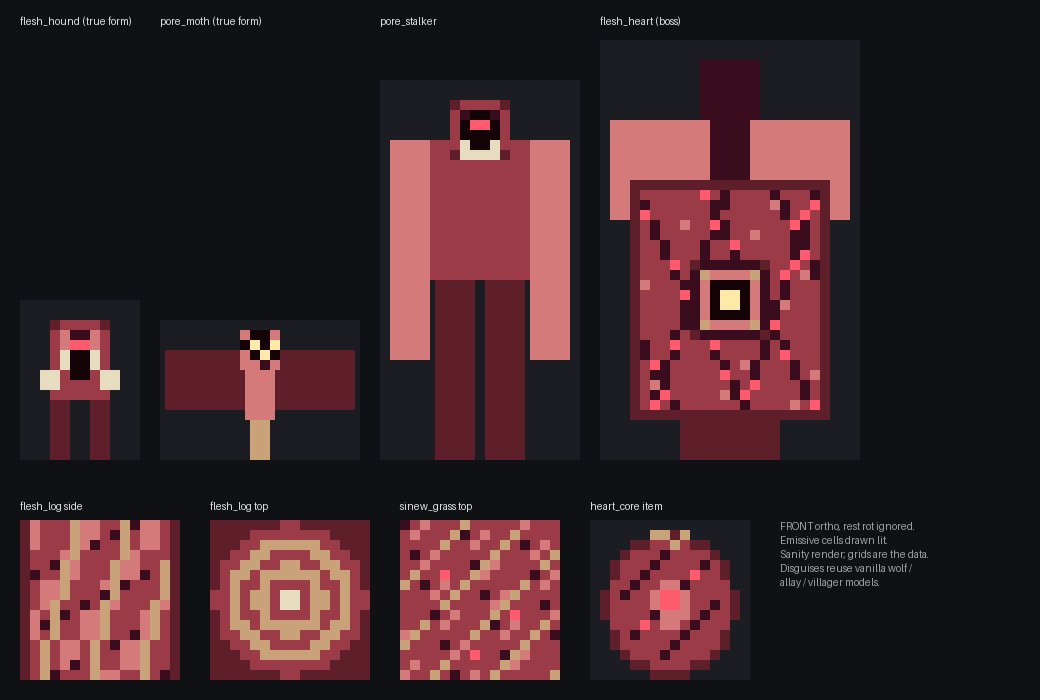
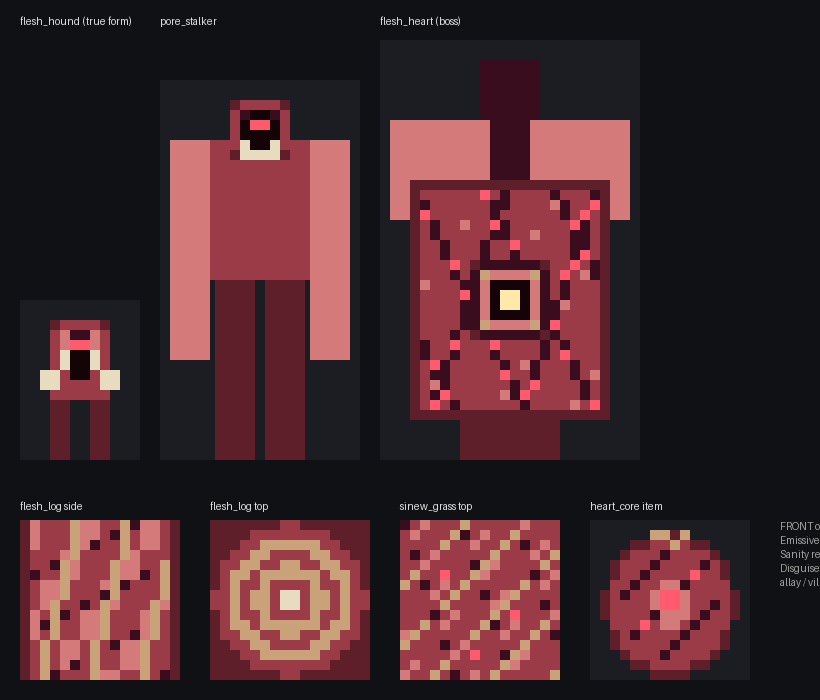
drafts/flesh-forest: heartling fairy from Ben's sketches (custom glamour + true form, shared wing pivots)
Claude-Session: https://claude.ai/code/session_01PRo1DjgbbjQjhffjfzdoFQ

diff --git a/drafts/flesh-forest.md b/drafts/flesh-forest.md
@@ -66,8 +66,8 @@ Two players standing side by side can see different worlds, and neither can chea
 
 Why this shape:
 - No fake block swapping, no per-player chunk packets, no server state that can desync. One flag per client.
-- Disguised mobs reuse vanilla models and textures (wolf, villager, allay), so the illusion layer costs almost no
-  art: only the true forms need palette grids.
+- The hound and puppet disguises reuse vanilla models and textures (wolf, villager), so most of the illusion layer
+  costs no art. The fairy is custom in both forms, drawn from Ben's sketches (7.2).
 - Every illusory block is a flesh block paired with a vanilla "twin" block whose model it borrows, so the forest
   looks exactly like vanilla flora until it doesn't.
 
@@ -147,7 +147,7 @@ Client side (`client` package, `Dist.CLIENT`):
 - **Sound:** biome ambient = birds. Pierced clients start a looping heartbeat `SoundInstance` and duck the biome
   ambience.
 - **Mobs:** each disguised entity's renderer holds two models: the vanilla disguise (`WolfModel`, `VillagerModel`,
-  `AllayModel` with a tint) and the true code model. `render()` picks by tier. Cave mobs render translucent at
+  the custom `fairy_glamour` model) and the true code model. `render()` picks by tier. Cave mobs render translucent at
   `stalker_alpha` (0.15 deceived, 0.45 uneasy, 1.0 lucid/pierced) plus a faint shimmer particle.
 - **Items:** glamoured items carry an item property `isekai_wilds:glamoured` (1 while the local tier is below
   `pierced`); the item model JSON overrides to the twin's model (diamond, gold ingot, emerald). Pure data.
@@ -187,7 +187,7 @@ type: datagen + event_handler   content_id: flesh_forest   modid: isekai_wilds  
 placement: TerraBlender overworld region, weight 2 (rare), temperature 0.6-0.9, humidity 0.6-1.0, low erosion
 features: flesh trees (twin oak/flowering azalea), pustule blooms (twin allium/peony/cornflower),
           vein vines (twin vine), ore spires (part of the warren structure, see 6.3)
-spawns:   flesh_hound (pack 2-4), pore_moth (3-6), surface monster cap off (no zombies: the paradise is quiet)
+spawns:   flesh_hound (pack 2-4), heartling (3-6), surface monster cap off (no zombies: the paradise is quiet)
 effects:  sky #9fd6ff, fog #d9f2ff, water #3fd8e8, grass/foliage vivid  (the glamour)
 magicule: kubejs/data/isekai_wilds/biome_magicule/flesh_forest.json  ADD 3000, regen ADD 15
 ```
@@ -267,10 +267,22 @@ M     pustule_glow  #ff5a6e   emissive  pulsing nodes (always over a base cell)
 B     bile_glow     #c6e04a   emissive  bile sacs, bile projectiles
 Y     eye_glow      #ffe9a8   emissive  lidless eyes, heart valve
 ```
-Disguise tint role (fairy glamour, multiplies the vanilla allay texture):
+Added for the heartling (7.2):
 ```
-g     fairy_tint    #ffb3e6   base      renderer colour multiplier on AllayModel
+r     blood         #7a0f1c   base      drips
+m     membrane      #2a0a12   base      wing membrane
 ```
+
+### 7.0b Palette `fairy_glamour` (the heartling's disguise only)
+```
+token id            hex       layer     note
+.     transparent   -         -
+W     orb_core      #ffffff   emissive  fairy light (always over w)
+C     orb_glow      #bff4ff   emissive  orb rim, halo
+w     wing_pale     #e6fbff   base      leaf wings (rendered translucent)
+v     wing_vein     #a8d8e8   base      leaf veins
+```
+Per-entity tint variants multiply the whole model: cyan `#9ff0ff`, pink `#ffb3e6`, gold `#ffe28a`.
 
 ### 7.1 `flesh_hound` (disguise: wolf)
 ```
@@ -328,48 +340,92 @@ verify:
   - death message names a "Flesh Hound"; killing it grants Tensura EP
 ```
 
-### 7.2 `pore_moth` (disguise: fairy)
+### 7.2 `heartling` (disguise: fairy) — from Ben's sketches, 2026-10-24
+Ben's two style references (`/mnt/project-files/design/flesh-forest/reference/`): the **glamour** is a glowing orb
+fairy with two large leaf wings swept up and out, two small leaf wings below, and a trail of sparkle dots. The
+**true form** is an anatomical heart with an aorta and vessel stubs on top, sinew spines fanning up and out like
+wing bones, a dark spiked membrane hanging under the spines, and blood dripping from the apex. Lore: heartlings
+are buds of The Grove's Heart, which is why the forest's "fairies" lead you down to it. When the heart dies,
+heartlings within 64 blocks wither.
+
+Both forms are custom models (Ben, 2026-10-24). **The wings share pivots**: the fairy's upper wings and the
+heartling's spines hinge at the same points, so a corner-of-the-eye glimpse (5.1) swaps the form inside the same
+silhouette. Concept render: `drafts/flesh-forest-fairy.png` (rest rotations applied, intent signs).
+
 ```
-type: entity   content_id: pore_moth   modid: isekai_wilds   build_target: vanilla_codemodel
-display_name: "Pore Moth"   glamour_name: "Fairy"   host: none
+type: entity   content_id: heartling   modid: isekai_wilds   build_target: vanilla_codemodel
+display_name: "Heartling"   glamour_name: "Fairy"   host: none
 spec:
   archetype: avian
   axes: { forward: -Z, up: +Y, right: +X }
-  disguise: { model: vanilla AllayModel, texture: minecraft:textures/entity/allay/allay.png, tint: fairy_tint, particle: glow_spark_pink }
-  model:
+  disguise:
+    model: fairy_glamour (custom code model below, palette fairy_glamour, rendered translucent + full-bright)
+    tint_variants: [ cyan #9ff0ff, pink #ffb3e6, gold #ffe28a ]   # renderer colour multiplier, picked per entity
+    halo: billboard 12x12 px glow sprite at locator_core, emissive, alpha 0.5
+    particle: fairy_trail (4-6 dots falling behind, the sketch's sparkle trail)
     cuboids:
-      - { bone: body,          size:[3,5,2], offset:[-1.5,4,-1],    pivot:[0,6.5,0],   rot:[0,0,0],    parent: everything }
-      - { bone: head,          size:[4,4,4], offset:[-2,9,-2.5],    pivot:[0,9,0],     rot:[0,0,0],    parent: body }
-      - { bone: wing_left,     size:[8,6,0], offset:[-9.5,5,0.5],   pivot:[-1.5,8,0.5], rot:[0,-20,-10], parent: body }   # membrane, swept back and down
-      - { bone: wing_right,    size:[8,6,0], offset:[1.5,5,0.5],    pivot:[1.5,8,0.5], rot:[0,20,10],  parent: body }
-      - { bone: leg_left,      size:[1,4,1], offset:[-1,0,-0.5],    pivot:[-0.5,4,0],  rot:[0,0,0],    parent: body }    # dangling tendril
-      - { bone: leg_right,     size:[1,4,1], offset:[0,0,-0.5],     pivot:[0.5,4,0],   rot:[0,0,0],    parent: body }
-    self_checks: [ "tendril tips at y=0", "head sits on body top y=9", "most-negative Z = head at -2.5" ]
+      - { bone: orb,              size:[4,4,4],  offset:[-2,6,-2],     pivot:[0,8,0],      rot:[0,0,0],   parent: everything }
+      - { bone: orb_facet,        size:[4,4,4],  offset:[-2,6,-2],     pivot:[0,8,0],      rot:[0,0,45],  parent: orb }     # rounds the orb's silhouette
+      - { bone: wing_upper_left,  size:[4,10,0], offset:[-5.5,9,0.5],  pivot:[-2,9.5,0.5], rot:[0,0,48],  parent: orb }     # swept up and out
+      - { bone: wing_upper_right, size:[4,10,0], offset:[1.5,9,0.5],   pivot:[2,9.5,0.5],  rot:[0,0,-48], parent: orb }
+      - { bone: wing_lower_left,  size:[2,4,0],  offset:[-3.5,3.5,0.5],pivot:[-2,7,0.5],   rot:[0,0,-62], parent: orb }     # small, down and out
+      - { bone: wing_lower_right, size:[2,4,0],  offset:[1.5,3.5,0.5], pivot:[2,7,0.5],    rot:[0,0,62],  parent: orb }
+    texture:
+      orb.north / orb_facet.north: { base: grid:fairy_orb_north, emissive: grid:fairy_orb_north_emissive }   other orb faces: same grid
+      wing_upper_*.north: { base: grid:fairy_wing_upper_north }   (south = mirror)
+      wing_lower_*.north: { base: grid:fairy_wing_lower_north }
+    motion: { flap: "upper wings rot z +/-20 at 8 Hz, lower wings +/-12 in counter-phase", bob: "orb y +/-0.75 px at 1 Hz" }
+  model:            # the TRUE form
+    cuboids:
+      - { bone: heart,         size:[5,6,4],  offset:[-2.5,5,-2],    pivot:[0,8,0],      rot:[0,0,-12], parent: everything }  # anatomical tilt
+      - { bone: apex,          size:[3,2,3],  offset:[-1.5,3.5,-1.5],pivot:[0,5,0],      rot:[0,45,0],  parent: heart }
+      - { bone: atrium_left,   size:[2,2,3],  offset:[-3,10.5,-1.5], pivot:[-2,11,0],    rot:[0,0,0],   parent: heart }
+      - { bone: atrium_right,  size:[2,2,3],  offset:[1,10.5,-1.5],  pivot:[2,11,0],     rot:[0,0,0],   parent: heart }
+      - { bone: aorta,         size:[2,3,2],  offset:[-1,11,-0.5],   pivot:[0,11,0.5],   rot:[-25,0,0], parent: heart }      # arches back
+      - { bone: vessel_left,   size:[1,2,1],  offset:[-2.5,12.5,0],  pivot:[-2,12.5,0.5],rot:[0,0,20],  parent: heart }
+      - { bone: vessel_right,  size:[1,2,1],  offset:[1.5,12.5,0],   pivot:[2,12.5,0.5], rot:[0,0,-20], parent: heart }
+      - { bone: drip_a,        size:[1,3,1],  offset:[-1,1.5,-1],    pivot:[-0.5,4.5,-0.5], rot:[0,0,0], parent: heart }     # scale-Y stretch anim
+      - { bone: drip_b,        size:[1,2,1],  offset:[1,2.5,-0.5],   pivot:[1.5,4.5,0],  rot:[0,0,0],   parent: heart }
+      - { bone: spine_left_1,  size:[1,13,1], offset:[-3,9.5,0],     pivot:[-2.5,10,0.5],rot:[0,0,18],  parent: everything } # wing bones fan up and out
+      - { bone: spine_left_2,  size:[1,12,1], offset:[-3,9,0],       pivot:[-2.5,9.5,0.5],rot:[0,0,38], parent: everything }
+      - { bone: spine_left_3,  size:[1,10,1], offset:[-3,8.5,0],     pivot:[-2.5,9,0.5], rot:[0,0,58],  parent: everything }
+      - { bone: membrane_left, size:[7,7,0],  offset:[-9.5,3,1.5],   pivot:[-2.5,9,1.5], rot:[0,0,28],  parent: everything } # spiked, hangs under the spines
+      - { mirror: "spine_right_1..3 and membrane_right = mirror of the left set across X (offset x -> -x-w, pivot x -> -x, rot z -> -z)" }
+    self_checks:
+      - "drip_a tip at y=1.5 is the lowest point (flyer: hovers ~0.5 block up, no feet)"
+      - "front (most-negative Z) = heart north face at z=-2, carrying the eye"
+      - "spine pivots within 0.5 px of the fairy's upper-wing pivots (shared silhouette)"
   texture:
-    head.north: { base: grid:pore_moth_head_north, emissive: grid:pore_moth_head_north_emissive }
-    head.other: solid p   body.*: solid p   wings: solid d (pending: vein tracery v)   legs: solid s
-  rig: { bones: avian(everything, body, head, wing_left, wing_right, leg_left, leg_right), locators: [ {id: locator_beak, on_bone: head, pos:[0,10.5,-2.5]} ] }
+    heart.north: { base: grid:heartling_heart_north, emissive: grid:heartling_heart_north_emissive }   # the sketch's eye
+    heart.other: solid f   apex: solid d   atria: solid p   aorta: solid f   vessels: solid v
+    spines: solid s (tips b, pending)   membrane_*.north: { base: grid:heartling_membrane_north }   drips: solid r
+  rig: { bones: avian(everything, heart, spine_*, membrane_*), locators: [ {id: locator_beak, on_bone: aorta, pos:[0,14,0]}, {id: locator_core, on_bone: heart, pos:[0,8,0]} ] }
   motion:
-    rest_pose: [ {bone: wing_left, rot:[0,-20,-10]}, {bone: wing_right, rot:[0,20,10]} ]
-    anims: [ {name: flap, type: loop}, {name: spit, type: once, particle_keys:[bile_glow@locator_beak]} ]
+    rest_pose: [ {bone: heart, rot:[0,0,-12]}, {bone: spine_left_1, rot:[0,0,18]}, {bone: spine_left_2, rot:[0,0,38]}, {bone: spine_left_3, rot:[0,0,58]}, {bone: membrane_left, rot:[0,0,28]} ]
+    anims: [ {name: beat, type: loop, note: "heart scale 1.0 -> 1.1 -> 1.0, 70 bpm; drips stretch on the beat"},
+             {name: flap, type: loop, note: "spines + membrane rot z +/-15 at 4 Hz (slower, heavier than the fairy)"},
+             {name: spit, type: once, particle_keys:[blood@locator_beak]} ]
   behaviour:
     attributes: { max_health: 10, flying_speed: 0.5, movement_speed: 0.25, follow_range: 32 }
     ai_goals:
       - {priority: 1, goal: lure_lead, params:{ only_tiers:[deceived, uneasy], flying: true, lead_ahead: 5-8, wait_radius: 12 }}
-      - {priority: 2, goal: ranged_spit, params:{ ability: bile_dart, range: 4-16, cd: 40-60 }}
+      - {priority: 2, goal: ranged_spit, params:{ ability: blood_dart, range: 4-16, cd: 40-60 }}
       - {priority: 4, goal: flee_when_close, params:{ under: 3 }}
       - {priority: 6, goal: hover_wander}
     ai_rule: "no melee at all; ranged spit (2) is its only attack; it flees under 3 blocks"
     targeting: [ {goal: nearest_player, params:{ tiers:[lucid, pierced] }}, {goal: nearest_player, params:{ inside_warren: true }} ]
     spawn: { category: ambient, biomes: [isekai_wilds:flesh_forest], weight: 14, pack: 3-6, placement: no_restrictions }
     tameable: none
-    abilities: [ bile_dart ]
+    abilities: [ blood_dart ]
+    on_heart_death: wither within 64 blocks
     tensura: { can_be_named: false, entity_existence_ep: 600 }
   npc: none
 verify:
-  - deceived client sees a pink-tinted allay-like fairy with sparkles; pierced client sees the pore moth
+  - deceived client sees a glowing orb fairy (cyan, pink or gold) with four leaf wings and a falling sparkle trail
+  - pierced client sees the winged heart: spines fanned up, membrane below, drips, the eye glowing on the front
+  - a glimpse swaps fairy -> heartling for 3 frames with the wings in the same place
   - fairies drift 5-8 blocks ahead toward a pore mouth and wait at the entrance
-  - against a pierced player it spits bile darts from range and never melees
+  - against a pierced player it spits blood darts from range and never melees
 ```
 
 ### 7.3 `skin_puppet` (disguise: villager)
@@ -542,7 +598,7 @@ EP 5000). `blood_clot` (blob, `core` 6x5x6 at [-3,0,-3], solid f; 12 HP, melee o
 | content_id | cast_type | numbers (defaults) |
 |---|---|---|
 | `tendon_lunge` | leap_strike | 3-8 blocks, 10 dmg, 1 s slow on hit |
-| `bile_dart` | projectile | 4 dmg + Poison I 4 s; VFX `bile_glow` |
+| `blood_dart` | projectile | 4 dmg + Wither I 3 s; VFX `blood` + `pustule_glow` |
 | `grasping_hold` | grab | 1.5-3 blocks, roots 2 s, 3 dmg/s |
 | `tendril_lash` | pull_line | 3-10 blocks, 8 dmg, pulls target to 2 blocks |
 | `bile_drop` | lobbed_aoe | 6-24 blocks, 3x3 acid puddle 5 s, 3 dmg/s |
@@ -670,20 +726,73 @@ d f n n f d
 . . . . . .
 ```
 
-**`pore_moth_head_north`** (4w x 4h)
+**`fairy_orb_north (palette fairy_glamour)`** (4w x 4h)
 ```
-p n n p
-n Y n Y
-p n Y n
-p p v p
+w w w w
+w w w w
+w w w w
+w w w w
 ```
 
-**`pore_moth_head_north_emissive`** (4w x 4h)
+**`fairy_orb_north_emissive`** (4w x 4h)
 ```
-. . . .
-. Y . Y
-. . Y .
-. . . .
+C W W C
+W W W W
+W W W W
+C W W C
+```
+
+**`fairy_wing_upper_north (palette fairy_glamour)`** (4w x 10h)
+```
+. w w .
+w v w w
+w v w w
+w w v w
+v w v w
+w w v v
+w w v w
+w v w w
+w v w .
+. w . .
+```
+
+**`fairy_wing_lower_north (palette fairy_glamour)`** (2w x 4h)
+```
+w w
+v w
+w v
+. w
+```
+
+**`heartling_heart_north`** (5w x 6h)
+```
+d f p f d
+f p v f f
+f v n f p
+v f f v f
+f f v f d
+d v f d .
+```
+
+**`heartling_heart_north_emissive`** (5w x 6h)
+```
+. . . . .
+. . . . .
+. . Y . .
+. . . . .
+. . . . .
+. . . . .
+```
+
+**`heartling_membrane_north (left; right = mirror)`** (7w x 7h)
+```
+m m m m m . .
+m v m m m m .
+m m v m m m m
+. m m v m m m
+. m m m v m m
+. . m m m v m
+. . . m . . m
 ```
 
 **`flesh_heart_valve_north`** (8w x 8h)
